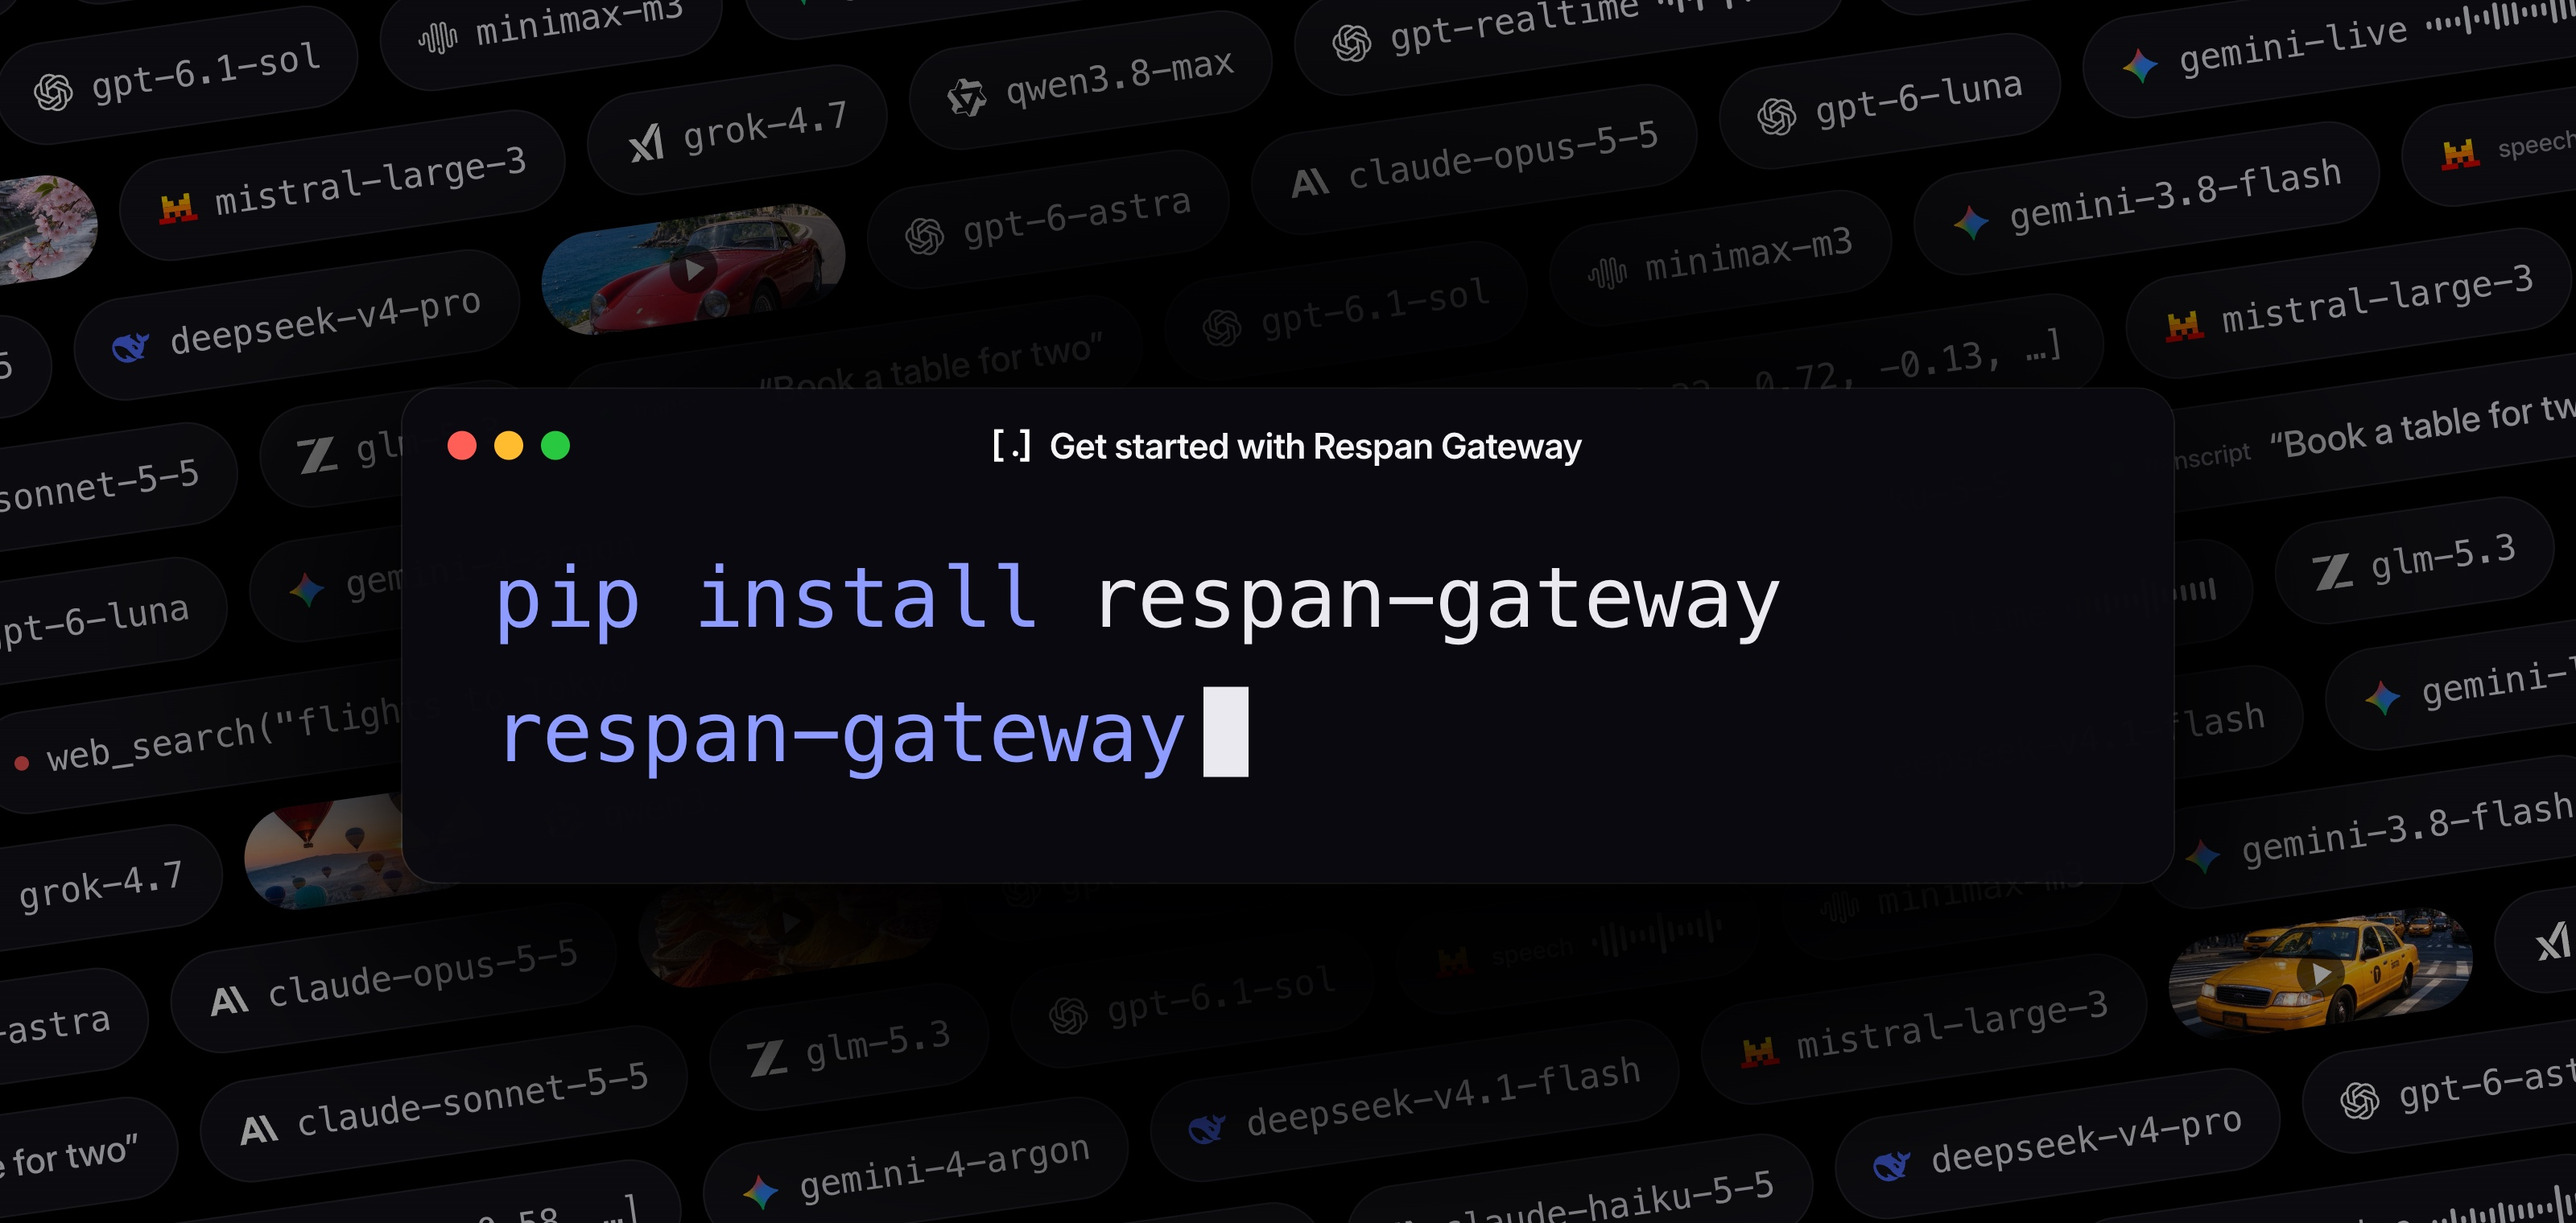
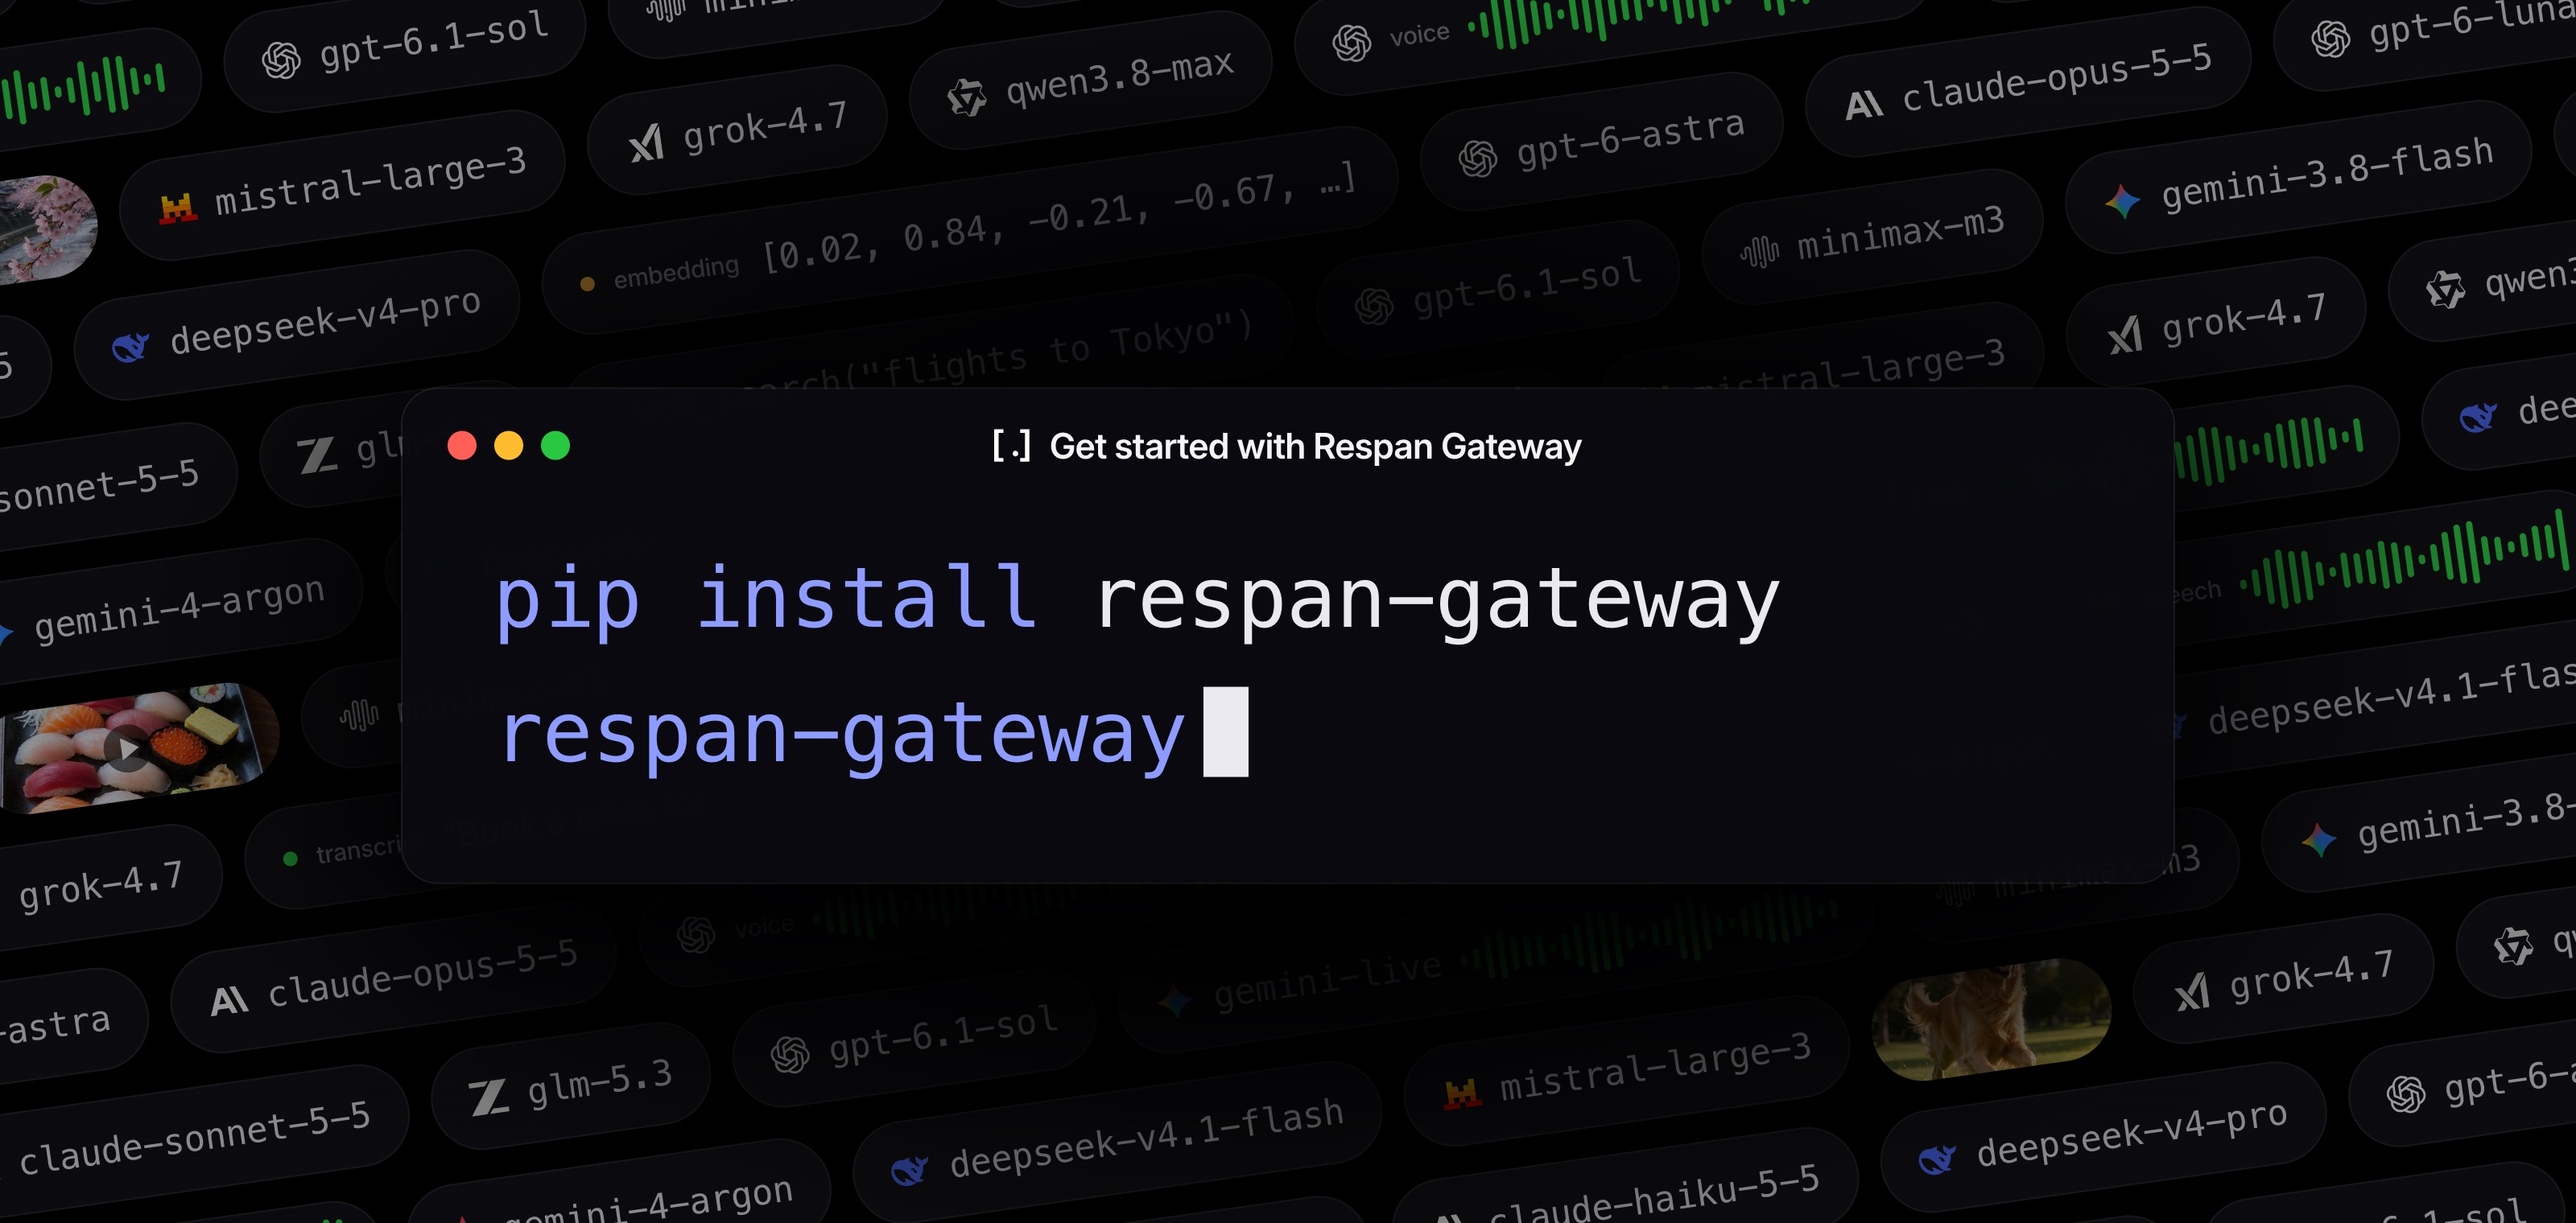
README hero: bigger, green voice waveforms, and more of them (draft)

diff --git a/docs/assets/hero-src/styles/b-ticker.html b/docs/assets/hero-src/styles/b-ticker.html
@@ -28,8 +28,8 @@
   .pill .play { position: absolute; left: 50%; top: 50%; width: 30px; height: 30px; margin: -15px 0 0 -15px; border-radius: 50%; background: rgba(0,0,0,.55); }
   .pill .play::before { content: ""; position: absolute; left: 11px; top: 8px; border-left: 11px solid #fff; border-top: 7px solid transparent; border-bottom: 7px solid transparent; }
   .pill .k { font-size: 15px; color: #8b8d96; font-family: Inter, -apple-system, Helvetica, sans-serif; }
-  .pill .w { display: flex; align-items: center; gap: 3px; height: 30px; }
-  .pill .w i { width: 3px; border-radius: 2px; background: #e6e7ec; display: block; }
+  .pill .w { display: flex; align-items: center; gap: 4px; height: 44px; }
+  .pill .w i { width: 4px; border-radius: 2px; background: #31de4b; display: block; }
   .pill .dot { width: 9px; height: 9px; border-radius: 50%; flex: none; }
   .shade { position: absolute; inset: 0; z-index: 2; background: radial-gradient(ellipse 46% 52% at 50% 52%, rgba(0,0,0,.96), rgba(0,0,0,.88) 55%, rgba(0,0,0,.4)); }
 
@@ -56,17 +56,18 @@
   const PHOTOS = ['p1','p5','p2','p9','p3','p6','p4','p7','p8','p10'];
 
   // the other kinds the gateway carries, as pills between the models
-  const wave = n => { let w = ''; for (let i = 0; i < n; i++) w += `<i style="height:${5 + Math.abs(Math.sin(i * .6)) * rnd() * 24}px"></i>`; return `<span class="w">${w}</span>`; };
+  const wave = n => { let w = ''; for (let i = 0; i < n; i++) w += `<i style="height:${6 + Math.abs(Math.sin(i * .45)) * (.35 + rnd() * .65) * 38}px"></i>`; return `<span class="w">${w}</span>`; };
   const vec = () => { const v = []; for (let i = 0; i < 4; i++) v.push((rnd() * 2 - 1).toFixed(2)); return `[${v.join(', ')}, …]`; };
   const KINDS = [
-    () => `<span class="pill">${mark('openai', 24)}<span class="mono">gpt-realtime</span>${wave(16)}</span>`,
+    () => `<span class="pill">${mark('openai', 24)}<span class="mono">gpt-realtime</span>${wave(30)}</span>`,
     () => `<span class="pill"><span class="dot" style="background:#ffb340"></span><span class="k">embedding</span><span class="mono">${vec()}</span></span>`,
     () => `<span class="pill ph" style="width:190px"><img src="../img/${PHOTOS[p++ % PHOTOS.length]}.jpg"><span class="play"></span></span>`,
-    () => `<span class="pill">${mark('google', 24)}<span class="mono">gemini-live</span>${wave(16)}</span>`,
+    () => `<span class="pill">${mark('google', 24)}<span class="mono">gemini-live</span>${wave(30)}</span>`,
     () => `<span class="pill"><span class="dot" style="background:#f55656"></span><span class="mono">web_search("flights to Tokyo")</span></span>`,
     () => `<span class="pill"><span class="dot" style="background:#31de4b"></span><span class="k">transcript</span>“Book a table for two”</span>`,
-    () => `<span class="pill">${mark('mistral', 24)}<span class="k">speech</span>${wave(14)}</span>`,
+    () => `<span class="pill">${mark('mistral', 24)}<span class="k">speech</span>${wave(26)}</span>`,
     () => `<span class="pill ph"><img src="../img/${PHOTOS[p++ % PHOTOS.length]}.jpg"></span>`,
+    () => `<span class="pill">${mark('openai', 24)}<span class="k">voice</span>${wave(34)}</span>`,
   ];
   let k = 0, p = 0, q = 0, h = '';
   for (let r = 0; r < 14; r++) { let row = '';

diff --git a/docs/assets/hero-src/hero.html b/docs/assets/hero-src/hero.html
@@ -28,8 +28,8 @@
   .pill .play { position: absolute; left: 50%; top: 50%; width: 30px; height: 30px; margin: -15px 0 0 -15px; border-radius: 50%; background: rgba(0,0,0,.55); }
   .pill .play::before { content: ""; position: absolute; left: 11px; top: 8px; border-left: 11px solid #fff; border-top: 7px solid transparent; border-bottom: 7px solid transparent; }
   .pill .k { font-size: 15px; color: #8b8d96; font-family: Inter, -apple-system, Helvetica, sans-serif; }
-  .pill .w { display: flex; align-items: center; gap: 3px; height: 30px; }
-  .pill .w i { width: 3px; border-radius: 2px; background: #e6e7ec; display: block; }
+  .pill .w { display: flex; align-items: center; gap: 4px; height: 44px; }
+  .pill .w i { width: 4px; border-radius: 2px; background: #31de4b; display: block; }
   .pill .dot { width: 9px; height: 9px; border-radius: 50%; flex: none; }
   .shade { position: absolute; inset: 0; z-index: 2; background: radial-gradient(ellipse 46% 52% at 50% 52%, rgba(0,0,0,.96), rgba(0,0,0,.88) 55%, rgba(0,0,0,.4)); }
 
@@ -56,17 +56,18 @@
   const PHOTOS = ['p1','p5','p2','p9','p3','p6','p4','p7','p8','p10'];
 
   // the other kinds the gateway carries, as pills between the models
-  const wave = n => { let w = ''; for (let i = 0; i < n; i++) w += `<i style="height:${5 + Math.abs(Math.sin(i * .6)) * rnd() * 24}px"></i>`; return `<span class="w">${w}</span>`; };
+  const wave = n => { let w = ''; for (let i = 0; i < n; i++) w += `<i style="height:${6 + Math.abs(Math.sin(i * .45)) * (.35 + rnd() * .65) * 38}px"></i>`; return `<span class="w">${w}</span>`; };
   const vec = () => { const v = []; for (let i = 0; i < 4; i++) v.push((rnd() * 2 - 1).toFixed(2)); return `[${v.join(', ')}, …]`; };
   const KINDS = [
-    () => `<span class="pill">${mark('openai', 24)}<span class="mono">gpt-realtime</span>${wave(16)}</span>`,
+    () => `<span class="pill">${mark('openai', 24)}<span class="mono">gpt-realtime</span>${wave(30)}</span>`,
     () => `<span class="pill"><span class="dot" style="background:#ffb340"></span><span class="k">embedding</span><span class="mono">${vec()}</span></span>`,
     () => `<span class="pill ph" style="width:190px"><img src="img/${PHOTOS[p++ % PHOTOS.length]}.jpg"><span class="play"></span></span>`,
-    () => `<span class="pill">${mark('google', 24)}<span class="mono">gemini-live</span>${wave(16)}</span>`,
+    () => `<span class="pill">${mark('google', 24)}<span class="mono">gemini-live</span>${wave(30)}</span>`,
     () => `<span class="pill"><span class="dot" style="background:#f55656"></span><span class="mono">web_search("flights to Tokyo")</span></span>`,
     () => `<span class="pill"><span class="dot" style="background:#31de4b"></span><span class="k">transcript</span>“Book a table for two”</span>`,
-    () => `<span class="pill">${mark('mistral', 24)}<span class="k">speech</span>${wave(14)}</span>`,
+    () => `<span class="pill">${mark('mistral', 24)}<span class="k">speech</span>${wave(26)}</span>`,
     () => `<span class="pill ph"><img src="img/${PHOTOS[p++ % PHOTOS.length]}.jpg"></span>`,
+    () => `<span class="pill">${mark('openai', 24)}<span class="k">voice</span>${wave(34)}</span>`,
   ];
   let k = 0, p = 0, q = 0, h = '';
   for (let r = 0; r < 14; r++) { let row = '';
